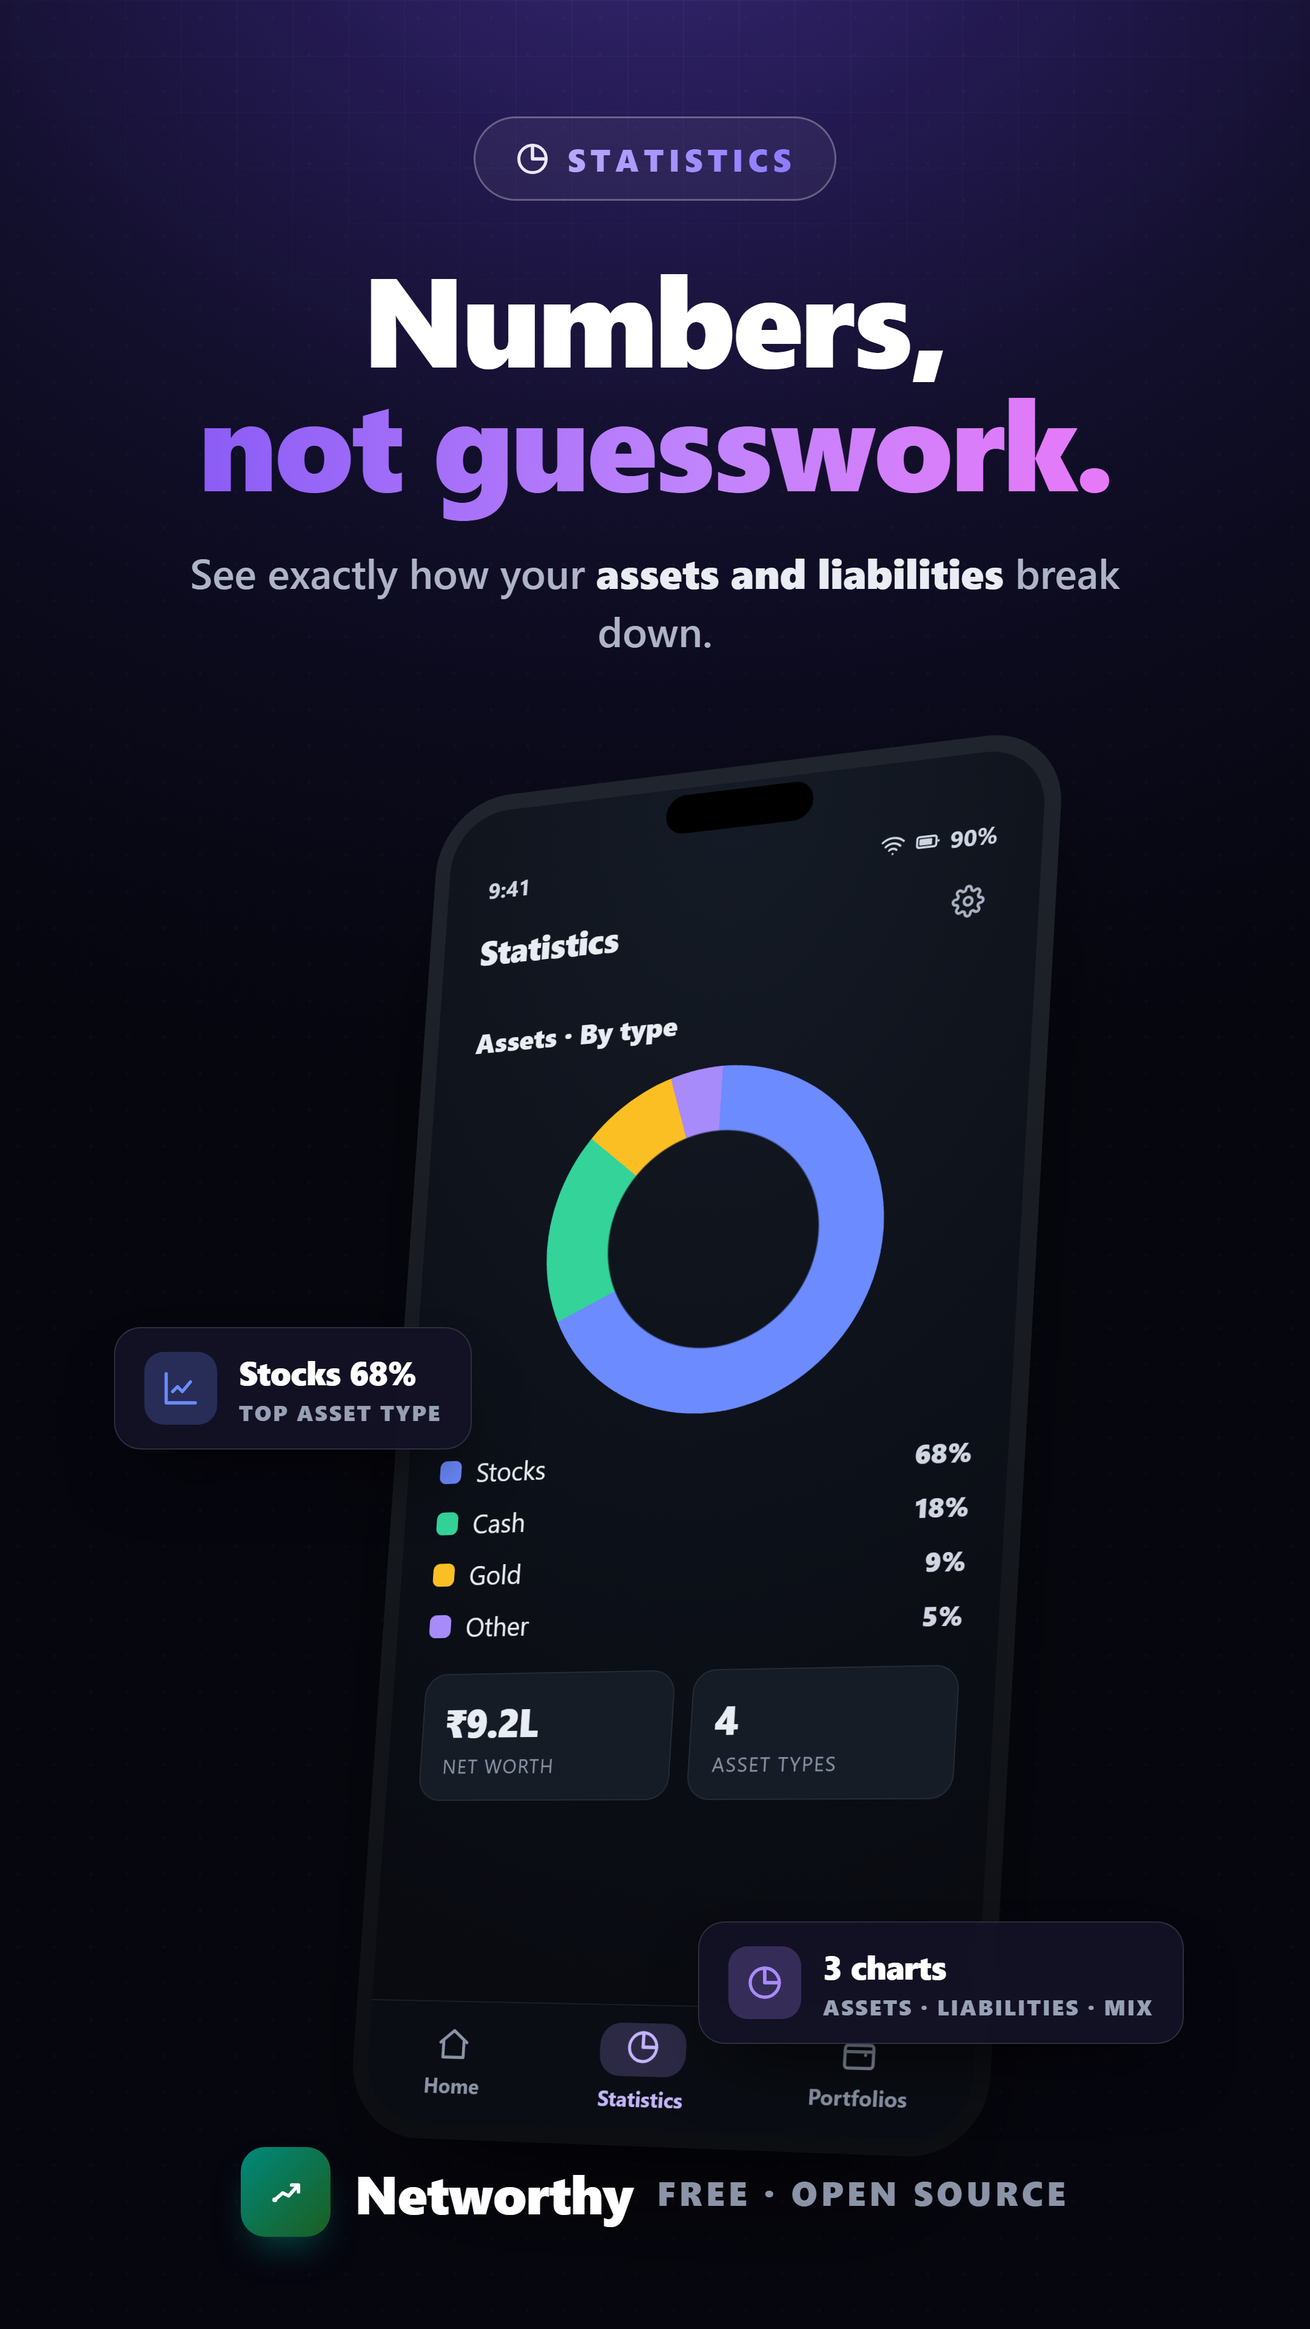
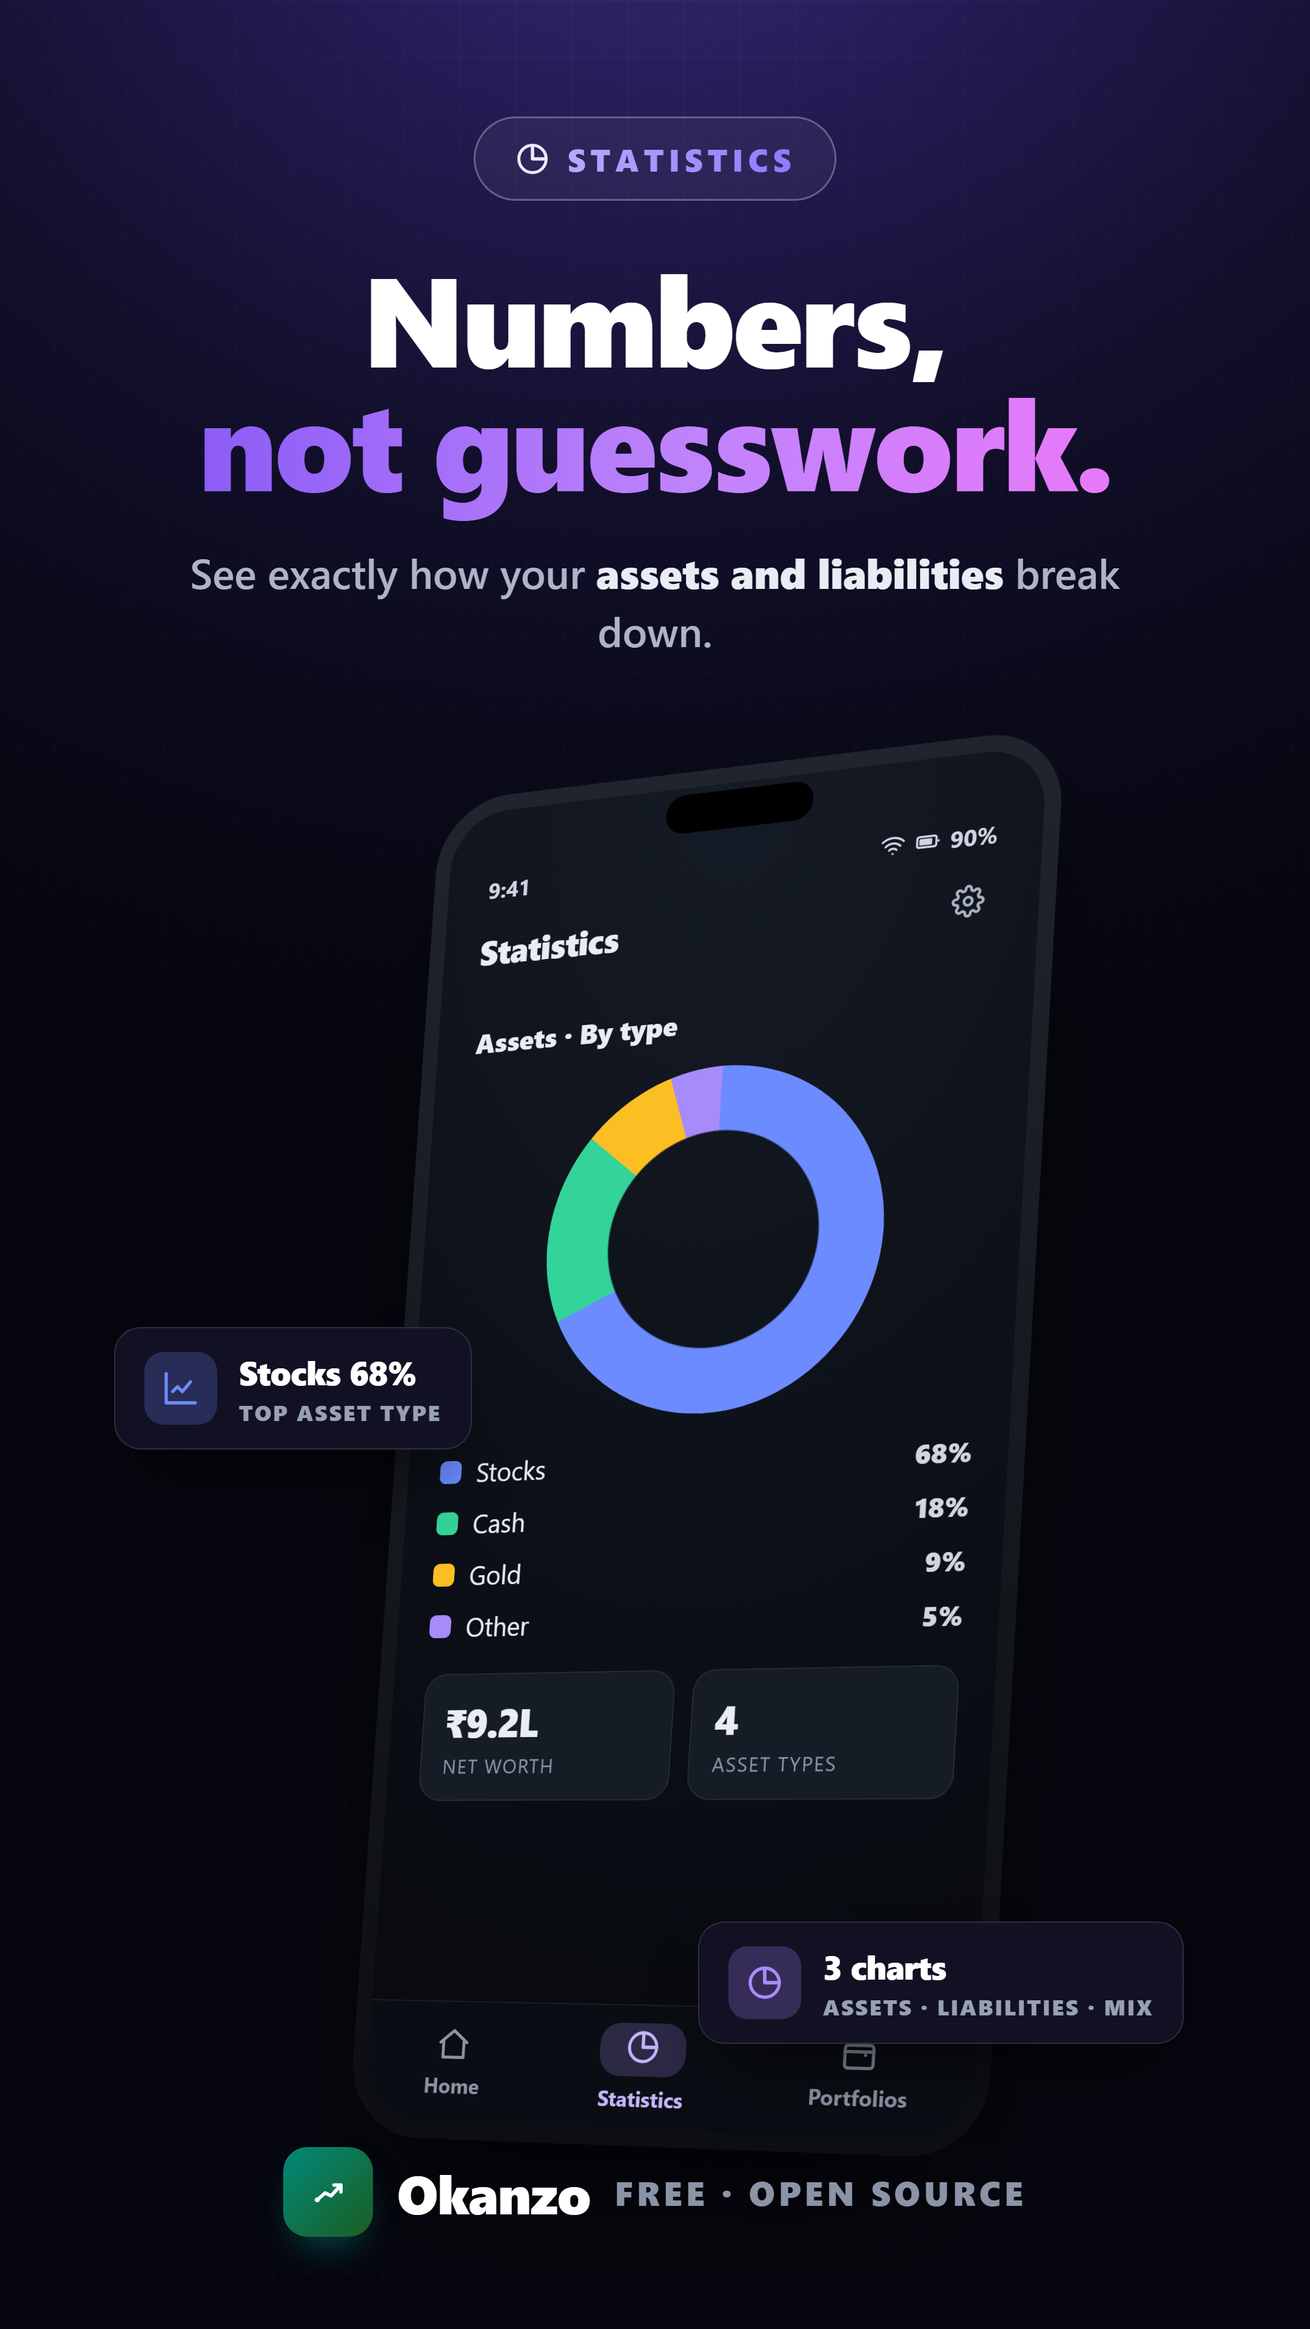
Rename app to Okanzo (package com.cairnlabworks.okanzo)
Rebrands the app from Networthy to Okanzo to avoid trademark conflicts with existing finance apps. Renames the applicationId/namespace/bundle id to com.cairnlabworks.okanzo, updates all UI strings, Dart classes, Kotlin package, iOS identifiers, privacy/repo URLs, fastlane metadata and marketing images. Bumps version to 1.2.4+7.

The encrypted backup format (MWB1) and the historical 'app' field in the golden backup fixture are preserved for backward compatibility; only new exports carry the Okanzo name.

Changed region(s): [[0.1861, 0.9062, 0.8065, 0.9688]]

diff --git a/marketing/generate.html b/marketing/generate.html
@@ -2,7 +2,7 @@
 <html lang="en">
 <head>
 <meta charset="utf-8" />
-<title>Networthy — marketing posters</title>
+<title>Okanzo — marketing posters</title>
 <style>
   * { box-sizing: border-box; margin: 0; padding: 0; -webkit-font-smoothing: antialiased; }
   body { background:#05060a; font-family:'Segoe UI', Roboto, system-ui, sans-serif; }
@@ -264,7 +264,7 @@ function lockScreen(){
   return `<div class="sc" style="padding:0">${statusbar()}
     <div class="lock">
       <div class="logo">${I.trend}</div>
-      <div class="app">Networthy</div>
+      <div class="app">Okanzo</div>
       <div class="masked">₹ ••••••</div>
       <div class="fp">${I.finger}</div>
       <div class="hint">Unlock to view your net worth</div>
@@ -291,7 +291,7 @@ function exportScreen(){
     <div class="top"><div class="h">Export</div><div class="ic">${I.gear}</div></div>
     <div class="expcard"><div class="et">Encrypted backup</div><div class="ed">Your portfolios are packed into a single password-protected file. Nothing is uploaded.</div></div>
     <div class="field"><div class="fl">Portfolios</div><div class="fv">All (3)</div></div>
-    <div class="field"><div class="fl">Format</div><div class="fv">.networthy</div></div>
+    <div class="field"><div class="fl">Format</div><div class="fv">.okanzo</div></div>
     <div class="field"><div class="fl">Encryption</div><div class="fv">AES-256 · GCM</div></div>
     <div class="chk"><div class="box">${I.check}</div><div class="ct">Password protected</div></div>
     <div class="fab" style="left:34px;right:auto">${I.download} Export</div>
@@ -307,7 +307,7 @@ function calloutHTML(c){
 }
 function bottomHTML(b){
   if(b.type==='pills') return `<div class="pills">${b.items.map(x=>`<div class="pill">${x}</div>`).join('')}</div>`;
-  return `<div class="brand"><div class="bl">${I.trend}</div><div class="bn">Networthy</div><div class="bt">${b.text}</div></div>`;
+  return `<div class="brand"><div class="bl">${I.trend}</div><div class="bn">Okanzo</div><div class="bt">${b.text}</div></div>`;
 }
 
 const POSTERS = [
@@ -373,7 +373,7 @@ const POSTERS = [
     sub:'Export an <b>encrypted backup</b> and import it anywhere. Password protected.',
     screen:exportScreen, phoneClass:'',
     callouts:[
-      {icon:'download', color:CO.teal, title:'Encrypted export', sub:'.networthy file', pos:'left:20px; top:740px;'},
+      {icon:'download', color:CO.teal, title:'Encrypted export', sub:'.okanzo file', pos:'left:20px; top:740px;'},
       {icon:'check', color:CO.emerald, title:'Import anywhere', sub:'Move devices freely', pos:'right:16px; top:1040px;'},
     ],
     bottom:{type:'brand', text:'FREE · OPEN SOURCE'},

diff --git a/test/backup_mapper_test.dart b/test/backup_mapper_test.dart
@@ -1,12 +1,12 @@
 import 'dart:convert';
 
-import 'package:networthy/data/backup/backup_mapper.dart';
-import 'package:networthy/data/backup/backup_models.dart';
-import 'package:networthy/data/local/entity/asset_entity.dart';
-import 'package:networthy/data/local/entity/liability_entity.dart';
-import 'package:networthy/domain/model/asset_type.dart';
-import 'package:networthy/domain/model/liability_type.dart';
-import 'package:networthy/util/relative_time.dart';
+import 'package:okanzo/data/backup/backup_mapper.dart';
+import 'package:okanzo/data/backup/backup_models.dart';
+import 'package:okanzo/data/local/entity/asset_entity.dart';
+import 'package:okanzo/data/local/entity/liability_entity.dart';
+import 'package:okanzo/domain/model/asset_type.dart';
+import 'package:okanzo/domain/model/liability_type.dart';
+import 'package:okanzo/util/relative_time.dart';
 import 'package:test/test.dart';
 
 void main() {
@@ -147,7 +147,7 @@ void main() {
       );
       expect(
         jsonEncode(file.toJson()),
-        '{"schema":1,"app":"Networthy","exportedAt":123,'
+        '{"schema":1,"app":"Okanzo","exportedAt":123,'
         '"portfolios":[{"name":"Main","isDefault":true,'
         '"assets":[],"liabilities":[]}]}',
       );
@@ -155,7 +155,7 @@ void main() {
 
     test('tolerates a file with missing collections', () {
       final BackupFile parsed = BackupFile.fromJson(
-        jsonDecode('{"schema":1,"app":"Networthy","exportedAt":1}')
+        jsonDecode('{"schema":1,"app":"Okanzo","exportedAt":1}')
             as Map<String, Object?>,
       );
       expect(parsed.portfolios, isNull);
@@ -165,7 +165,7 @@ void main() {
     test('parses portfolios with partial asset records', () {
       final BackupFile parsed = BackupFile.fromJson(
         jsonDecode(
-          '{"schema":1,"app":"Networthy","exportedAt":1,"portfolios":'
+          '{"schema":1,"app":"Okanzo","exportedAt":1,"portfolios":'
           '[{"name":"P","isDefault":false,"assets":'
           '[{"type":"CASH","name":"A","currency":"USD"}]}]}',
         ) as Map<String, Object?>,

diff --git a/test/backup_crypto_test.dart b/test/backup_crypto_test.dart
@@ -1,8 +1,8 @@
 import 'dart:convert';
 import 'dart:typed_data';
 
-import 'package:networthy/data/backup/backup_models.dart';
-import 'package:networthy/data/security/backup_crypto.dart';
+import 'package:okanzo/data/backup/backup_models.dart';
+import 'package:okanzo/data/security/backup_crypto.dart';
 import 'package:test/test.dart';
 
 /// A backup produced by the original Android/Kotlin implementation
@@ -24,6 +24,10 @@ const String _goldenBackupBase64 =
 /// Java's `PBEKeySpec`.
 const String _goldenPassword = 'pässwörd✓ 1';
 
+// NOTE: this is the decrypted plaintext of the immutable _goldenBackupBase64
+// fixture produced by the original Android/Kotlin app, so the "app" field must
+// stay as the historical name ("Networthy") for the round-trip to be exact.
+// New backups written by this app use the current name (see BackupFile default).
 const String _goldenJson =
     '{"schema":1,"app":"Networthy","exportedAt":1717171717171,"portfolios":'
     '[{"name":"Golden","isDefault":true,"assets":'
@@ -81,7 +85,7 @@ void main() {
           isA<InvalidBackupException>().having(
             (InvalidBackupException e) => e.message,
             'message',
-            'File is not a valid Networthy backup.',
+            'File is not a valid Okanzo backup.',
           ),
         ),
       );
@@ -99,7 +103,7 @@ void main() {
           isA<InvalidBackupException>().having(
             (InvalidBackupException e) => e.message,
             'message',
-            'File is not a valid Networthy backup.',
+            'File is not a valid Okanzo backup.',
           ),
         ),
       );

diff --git a/lib/ui/settings/settings_screen.dart b/lib/ui/settings/settings_screen.dart
@@ -120,7 +120,7 @@ class _SettingsScreenState extends State<SettingsScreen> {
               const _SectionTitle('Security'),
               _SwitchRow(
                 title: 'App lock',
-                subtitle: 'Require fingerprint or device PIN to open Networthy',
+                subtitle: 'Require fingerprint or device PIN to open Okanzo',
                 value: settings.appLockEnabled,
                 onChanged: _onAppLockChanged,
               ),
@@ -154,12 +154,12 @@ class _SettingsScreenState extends State<SettingsScreen> {
               const Divider(height: 1),
               const _SectionTitle('About'),
               const _SettingRow(
-                title: 'Networthy',
+                title: 'Okanzo',
                 subtitle: 'Version 1.2.3 · Open source (MIT)',
               ),
               _SettingRow(
                 title: 'Privacy policy',
-                subtitle: 'cairn-labworks.github.io/networthy/privacy',
+                subtitle: 'cairn-labworks.github.io/okanzo/privacy',
                 onTap: _openPrivacyPolicy,
               ),
               Padding(
@@ -311,7 +311,7 @@ class _SettingsScreenState extends State<SettingsScreen> {
       );
       final Uri? saved = await FilePicker.saveFile(
         dialogTitle: 'Export portfolios',
-        fileName: 'networthy-backup.networthy',
+        fileName: 'okanzo-backup.okanzo',
         bytes: bytes,
       );
       if (saved == null) return;

diff --git a/lib/main.dart b/lib/main.dart
@@ -21,11 +21,11 @@ Future<void> main() async {
   // Number and date formatting follows the device locale, as it did on Android.
   Intl.defaultLocale = Platform.localeName.split('.').first;
   final AppContainer container = await AppContainer.create();
-  runApp(AppScope(container: container, child: const NetworthyApp()));
+  runApp(AppScope(container: container, child: const OkanzoApp()));
 }
 
-class NetworthyApp extends StatelessWidget {
-  const NetworthyApp({super.key});
+class OkanzoApp extends StatelessWidget {
+  const OkanzoApp({super.key});
 
   @override
   Widget build(BuildContext context) {
@@ -46,7 +46,7 @@ class NetworthyApp extends StatelessWidget {
             final bool useDynamic =
                 settings.dynamicColor && appTheme == AppTheme.classic;
             return MaterialApp(
-              title: 'Networthy',
+              title: 'Okanzo',
               debugShowCheckedModeBanner: false,
               theme: buildTheme(
                 brightness: Brightness.light,
@@ -131,7 +131,7 @@ class _AppLockGateState extends State<AppLockGate> with WidgetsBindingObserver {
     if (_prompting) return;
     _prompting = true;
     final String? error = await BiometricAuthenticator.authenticate(
-      title: 'Unlock Networthy',
+      title: 'Unlock Okanzo',
       subtitle: "Confirm it's you to view your net worth",
     );
     _prompting = false;

diff --git a/test/presentation_logic_test.dart b/test/presentation_logic_test.dart
@@ -1,13 +1,13 @@
-import 'package:networthy/data/local/entity/portfolio_entity.dart';
-import 'package:networthy/data/local/entity/asset_entity.dart';
-import 'package:networthy/data/local/entity/liability_entity.dart';
-import 'package:networthy/data/repository/currency_converter.dart';
-import 'package:networthy/domain/model/asset_type.dart';
-import 'package:networthy/domain/model/liability_type.dart';
-import 'package:networthy/ui/home/category_groups.dart';
-import 'package:networthy/ui/statistics/chart_format.dart';
-import 'package:networthy/util/category_order.dart';
-import 'package:networthy/util/collections.dart';
+import 'package:okanzo/data/local/entity/portfolio_entity.dart';
+import 'package:okanzo/data/local/entity/asset_entity.dart';
+import 'package:okanzo/data/local/entity/liability_entity.dart';
+import 'package:okanzo/data/repository/currency_converter.dart';
+import 'package:okanzo/domain/model/asset_type.dart';
+import 'package:okanzo/domain/model/liability_type.dart';
+import 'package:okanzo/ui/home/category_groups.dart';
+import 'package:okanzo/ui/statistics/chart_format.dart';
+import 'package:okanzo/util/category_order.dart';
+import 'package:okanzo/util/collections.dart';
 import 'package:test/test.dart';
 
 PortfolioEntity portfolio(int id, String name, {bool isDefault = false}) =>

diff --git a/test/net_worth_test.dart b/test/net_worth_test.dart
@@ -1,10 +1,10 @@
-import 'package:networthy/data/local/entity/asset_entity.dart';
-import 'package:networthy/data/local/entity/liability_entity.dart';
-import 'package:networthy/data/repository/currency_converter.dart';
-import 'package:networthy/data/repository/net_worth_calculator.dart';
-import 'package:networthy/domain/model/asset_type.dart';
-import 'package:networthy/domain/model/liability_type.dart';
-import 'package:networthy/domain/model/net_worth_summary.dart';
+import 'package:okanzo/data/local/entity/asset_entity.dart';
+import 'package:okanzo/data/local/entity/liability_entity.dart';
+import 'package:okanzo/data/repository/currency_converter.dart';
+import 'package:okanzo/data/repository/net_worth_calculator.dart';
+import 'package:okanzo/domain/model/asset_type.dart';
+import 'package:okanzo/domain/model/liability_type.dart';
+import 'package:okanzo/domain/model/net_worth_summary.dart';
 import 'package:test/test.dart';
 
 AssetEntity asset({

diff --git a/test/form_state_test.dart b/test/form_state_test.dart
@@ -1,9 +1,9 @@
-import 'package:networthy/data/local/entity/asset_entity.dart';
-import 'package:networthy/data/local/entity/liability_entity.dart';
-import 'package:networthy/domain/model/asset_type.dart';
-import 'package:networthy/domain/model/liability_type.dart';
-import 'package:networthy/ui/asset/asset_form_state.dart';
-import 'package:networthy/ui/liability/liability_form_state.dart';
+import 'package:okanzo/data/local/entity/asset_entity.dart';
+import 'package:okanzo/data/local/entity/liability_entity.dart';
+import 'package:okanzo/domain/model/asset_type.dart';
+import 'package:okanzo/domain/model/liability_type.dart';
+import 'package:okanzo/ui/asset/asset_form_state.dart';
+import 'package:okanzo/ui/liability/liability_form_state.dart';
 import 'package:test/test.dart';
 
 void main() {

diff --git a/test/remote_api_test.dart b/test/remote_api_test.dart
@@ -2,10 +2,10 @@ import 'dart:convert';
 
 import 'package:http/http.dart' as http;
 import 'package:http/testing.dart';
-import 'package:networthy/data/remote/fx/fx_api.dart';
-import 'package:networthy/data/remote/stock/chart_response.dart';
-import 'package:networthy/data/remote/stock/stock_price_service.dart';
-import 'package:networthy/util/result.dart';
+import 'package:okanzo/data/remote/fx/fx_api.dart';
+import 'package:okanzo/data/remote/stock/chart_response.dart';
+import 'package:okanzo/data/remote/stock/stock_price_service.dart';
+import 'package:okanzo/util/result.dart';
 import 'package:test/test.dart';
 
 StockPriceService serviceReturning(

diff --git a/lib/data/security/backup_crypto.dart b/lib/data/security/backup_crypto.dart
@@ -63,7 +63,7 @@ class BackupCrypto {
     const int header = 4 + 1 + _saltLength + _ivLength;
     if (data.length < header) {
       throw const InvalidBackupException(
-        'File is not a valid Networthy backup.',
+        'File is not a valid Okanzo backup.',
       );
     }
     int offset = 0;
@@ -72,7 +72,7 @@ class BackupCrypto {
     for (int i = 0; i < _magic.length; i++) {
       if (magic[i] != _magic[i]) {
         throw const InvalidBackupException(
-          'File is not a valid Networthy backup.',
+          'File is not a valid Okanzo backup.',
         );
       }
     }

diff --git a/lib/util/link_opener.dart b/lib/util/link_opener.dart
@@ -6,11 +6,11 @@ class LinkOpener {
   const LinkOpener._();
 
   static const MethodChannel _channel = MethodChannel(
-    'com.cairnlabworks.networthy/links',
+    'com.cairnlabworks.okanzo/links',
   );
 
   static const String privacyPolicyUrl =
-      'https://cairn-labworks.github.io/networthy/privacy/';
+      'https://cairn-labworks.github.io/okanzo/privacy/';
 
   /// Returns false when the link couldn't be opened, for example when no
   /// browser is installed or the platform has no handler (iOS).

diff --git a/android/app/src/main/kotlin/com/cairnlabworks/okanzo/MainActivity.kt b/android/app/src/main/kotlin/com/cairnlabworks/okanzo/MainActivity.kt
@@ -1,4 +1,4 @@
-package com.cairnlabworks.networthy
+package com.cairnlabworks.okanzo
 
 import android.content.ActivityNotFoundException
 import android.content.Intent
@@ -43,6 +43,6 @@ class MainActivity : FlutterFragmentActivity() {
     }
 
     private companion object {
-        const val LINKS_CHANNEL = "com.cairnlabworks.networthy/links"
+        const val LINKS_CHANNEL = "com.cairnlabworks.okanzo/links"
     }
 }
